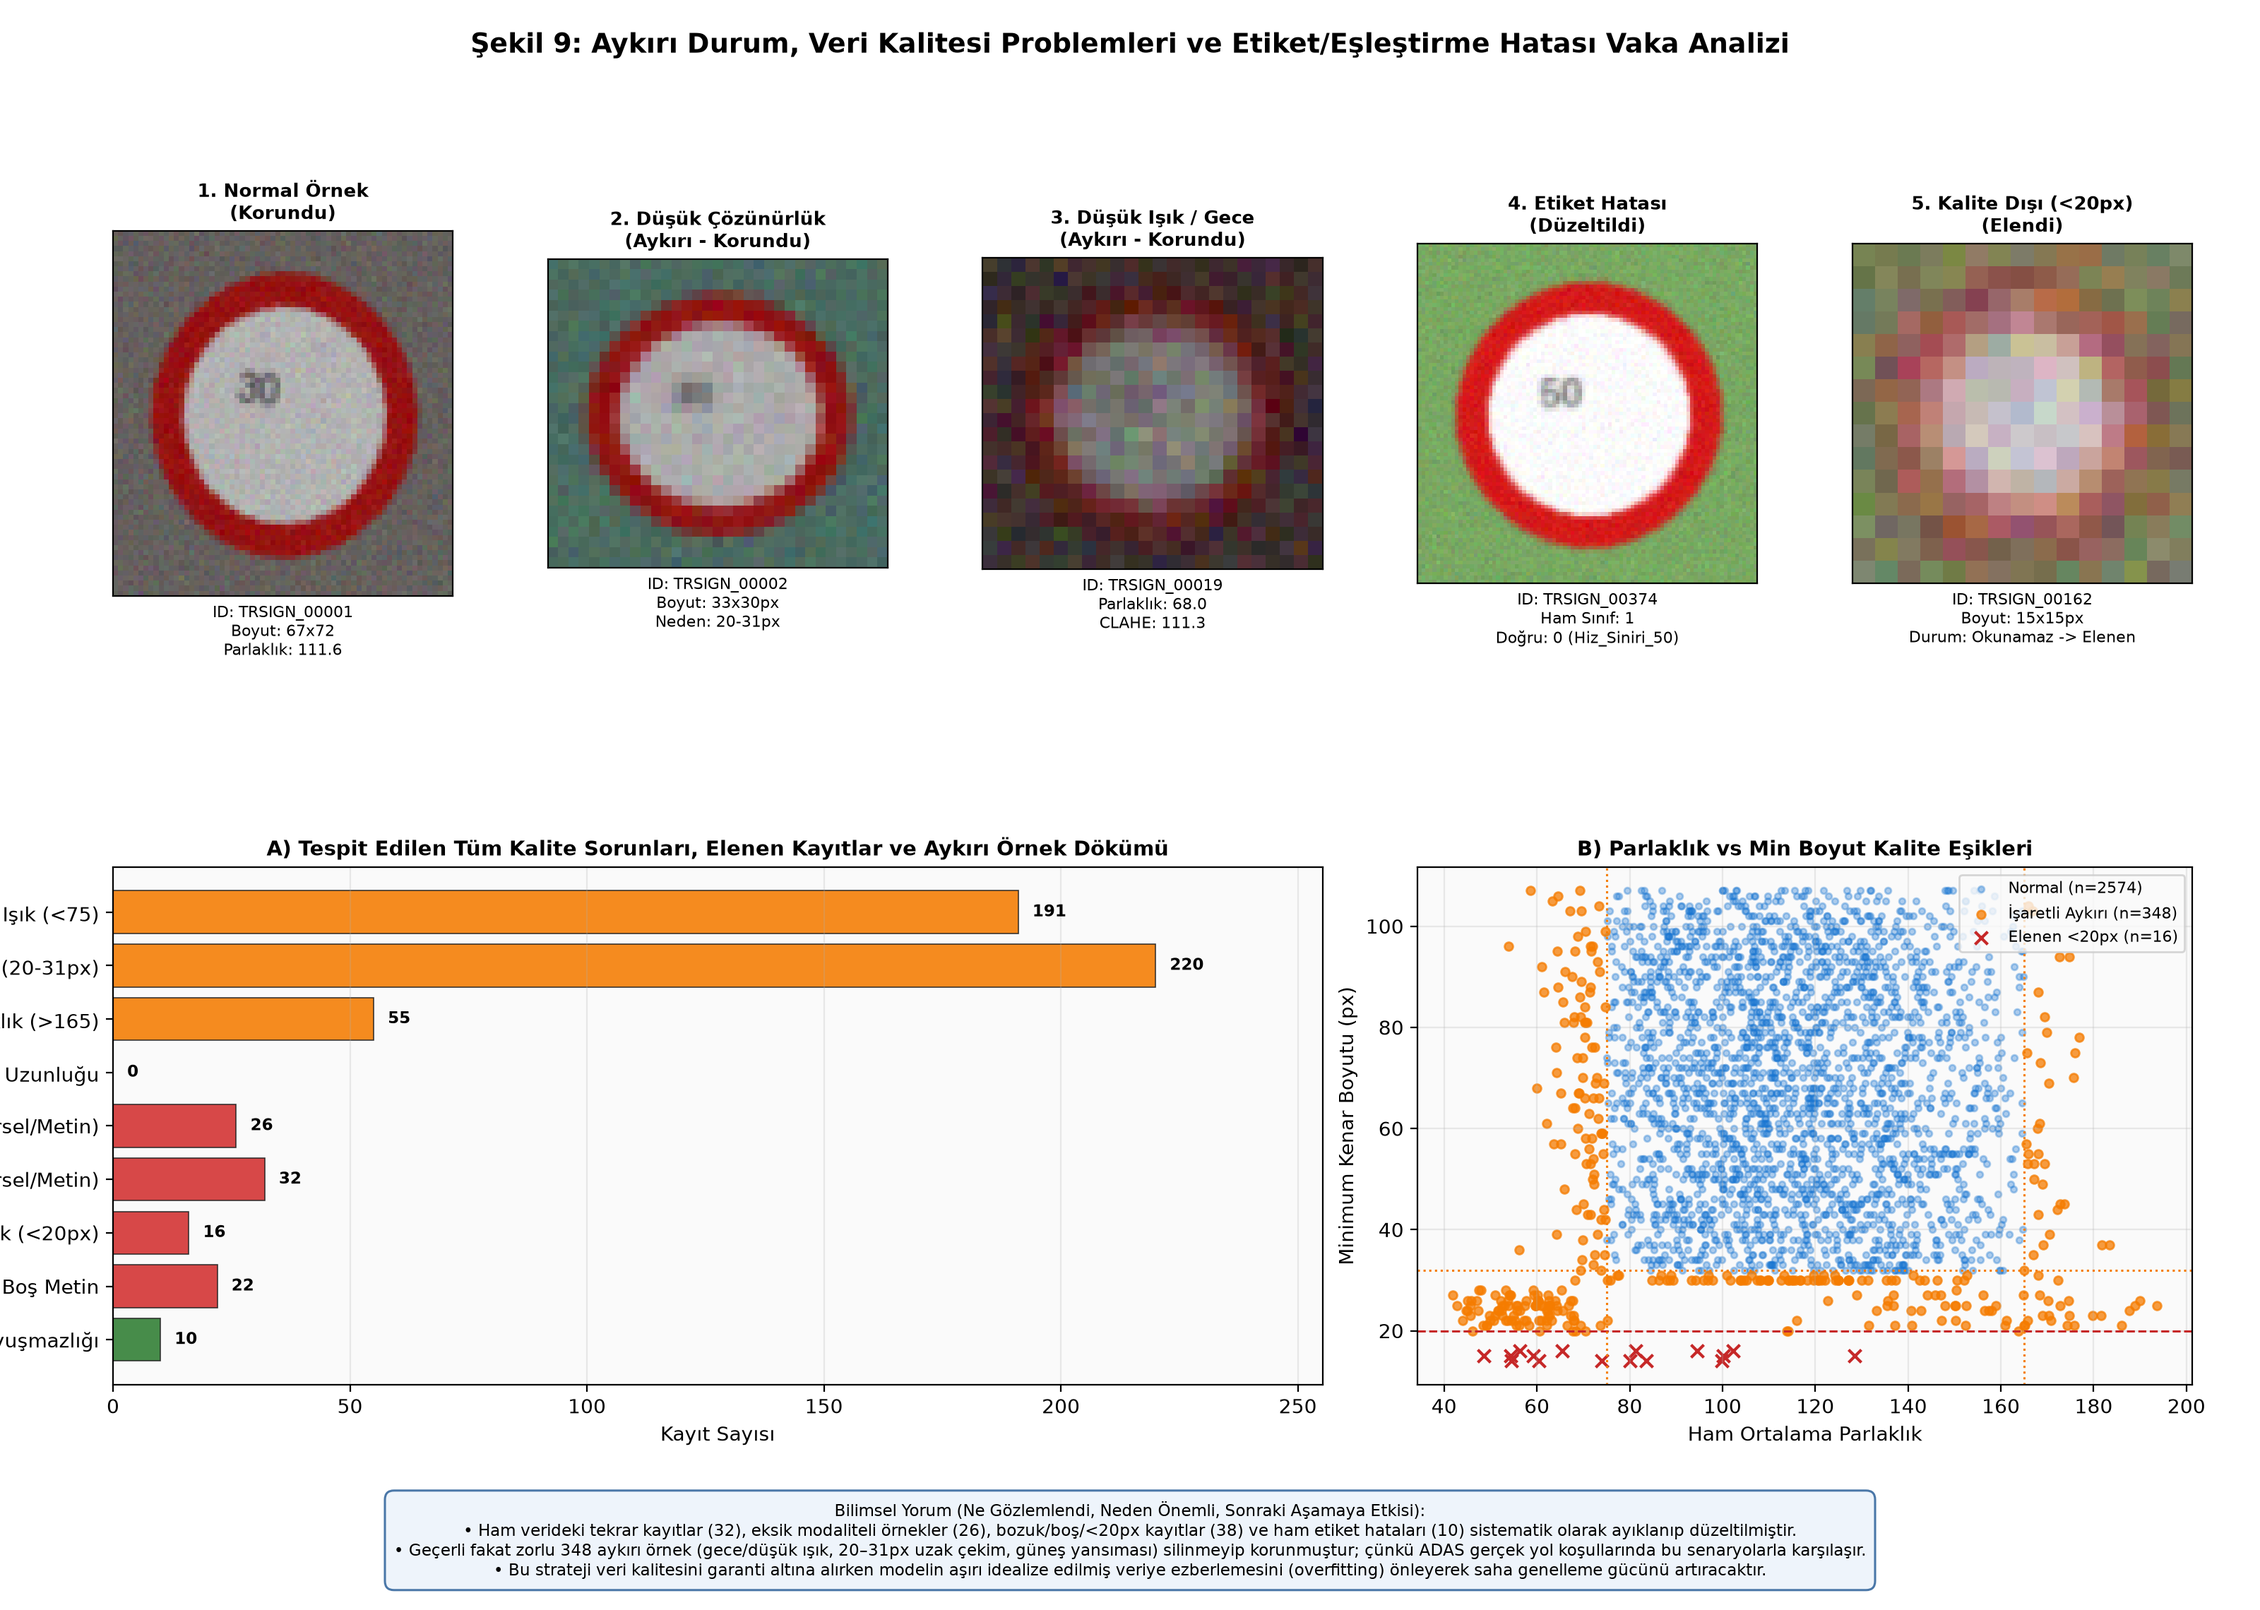
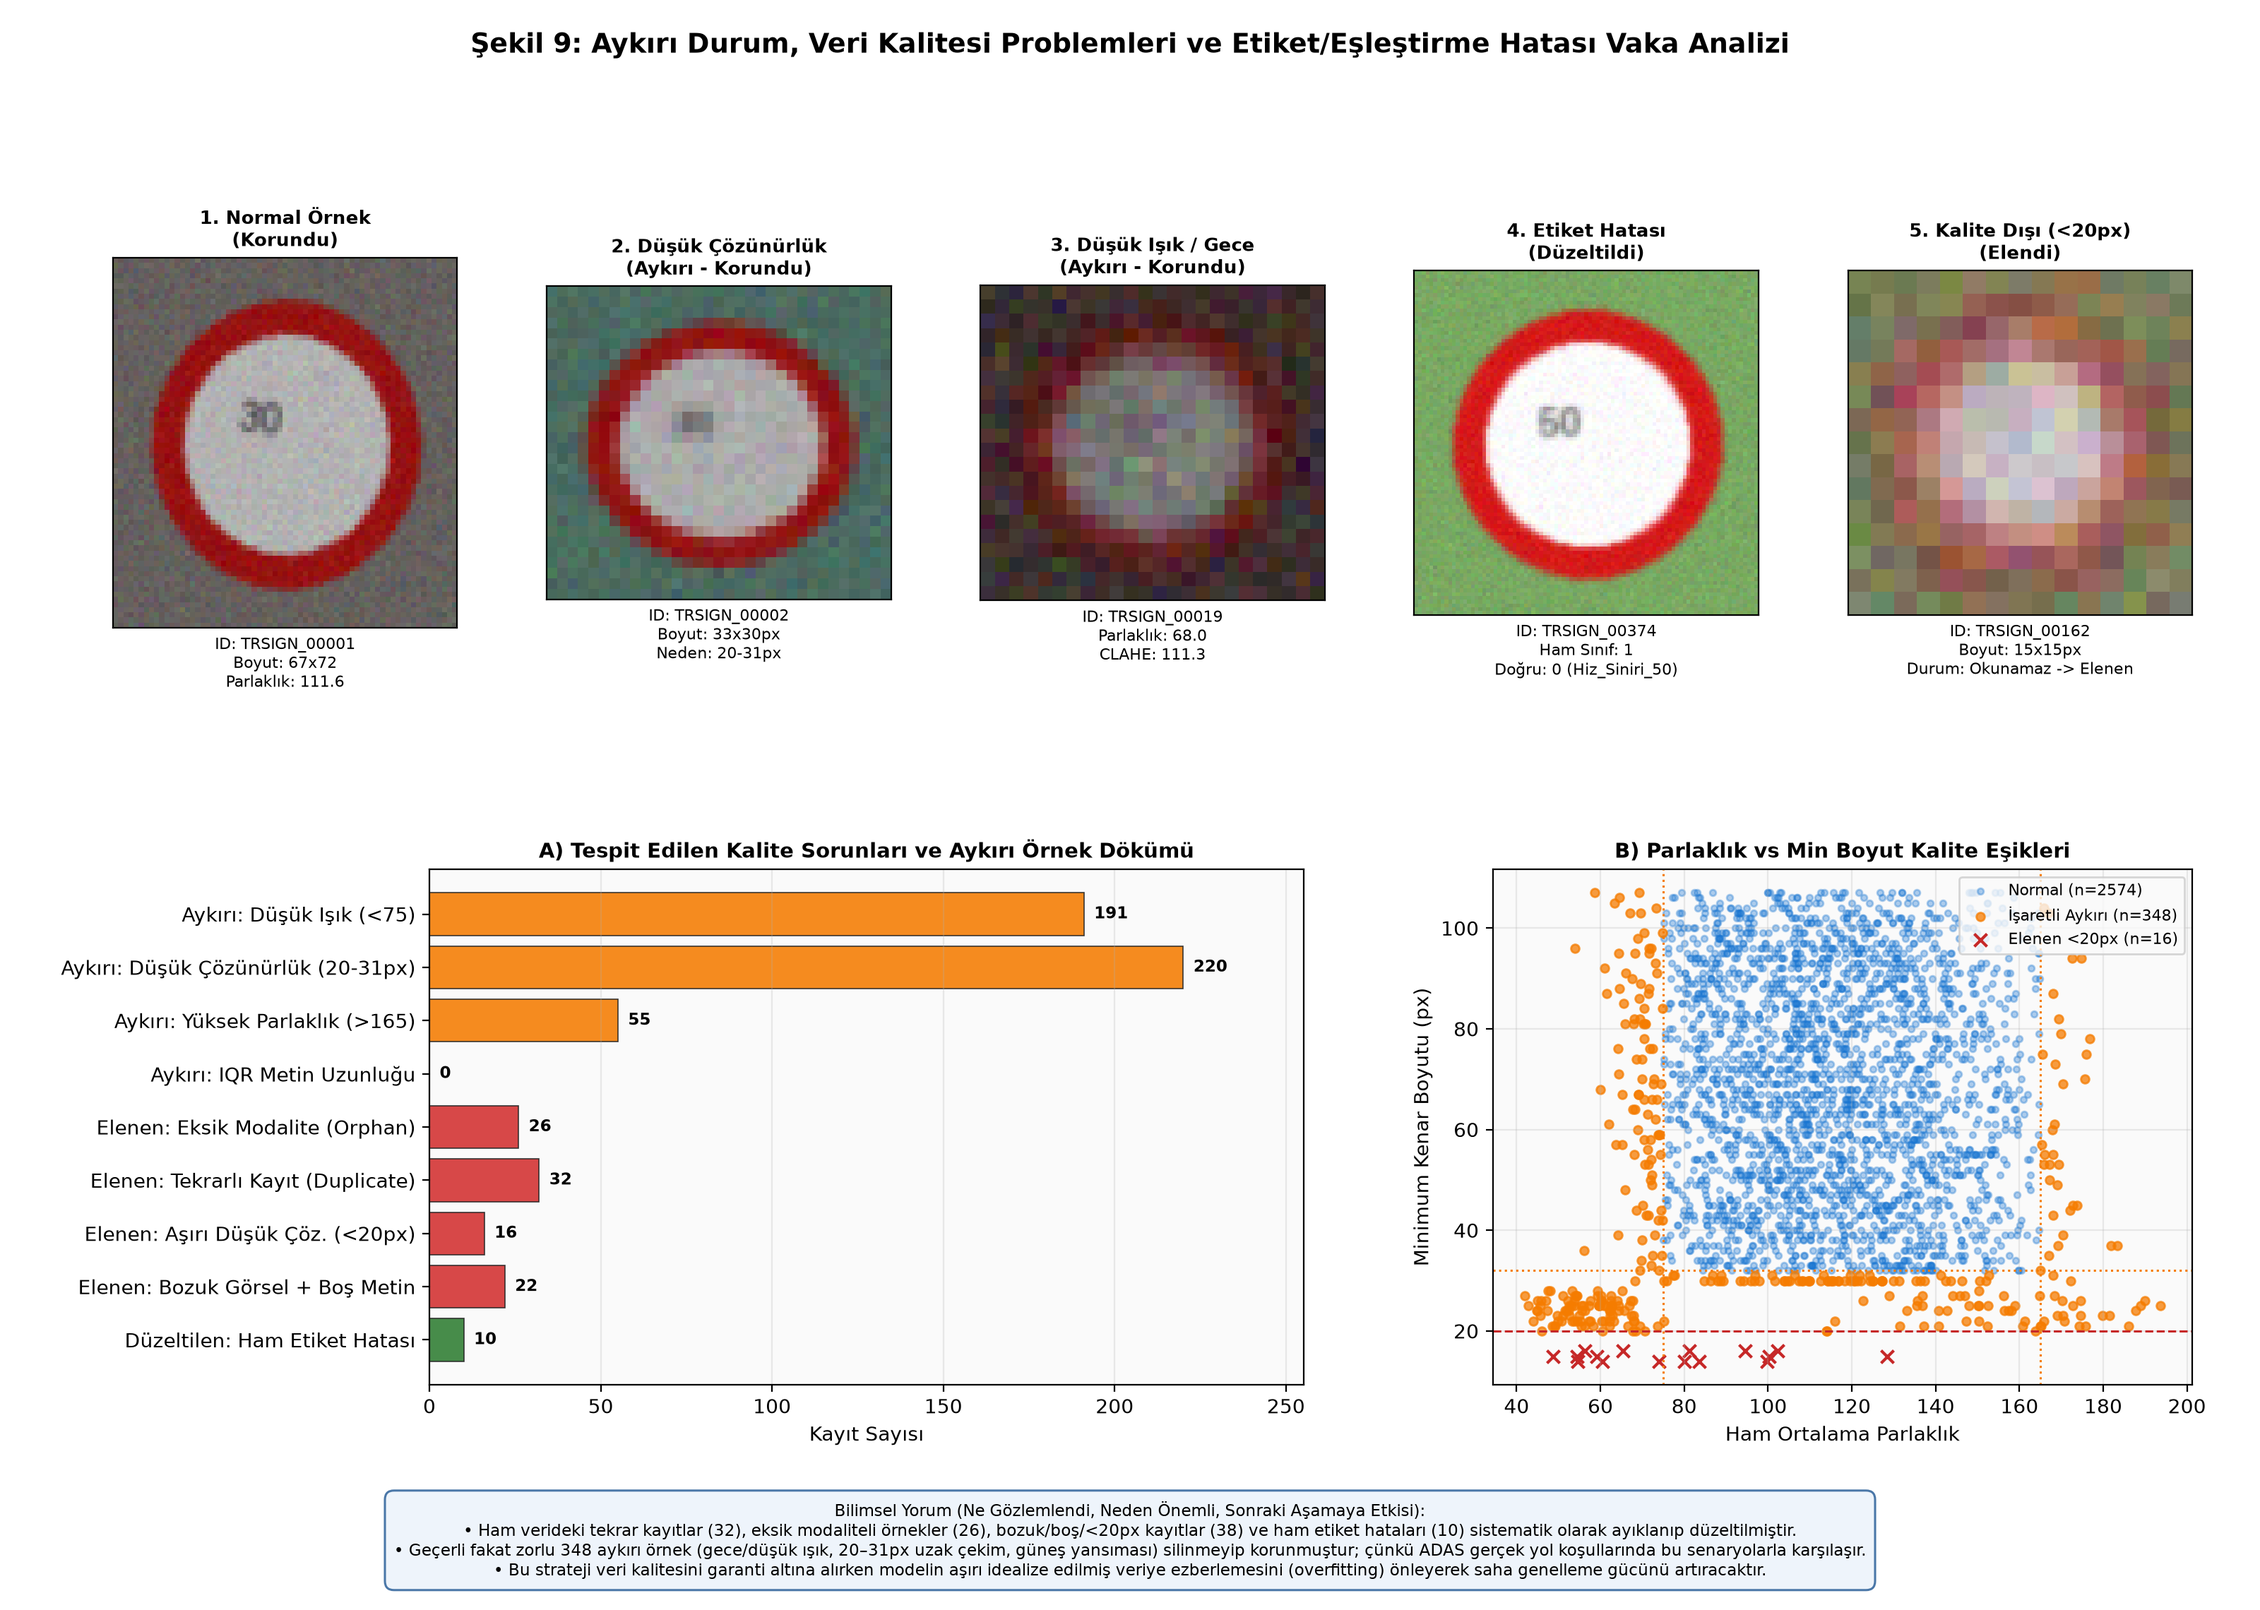
refactor: implement exploratory data analysis and scientific visualization module for dataset inspection

diff --git a/src/eda.py b/src/eda.py
@@ -704,8 +704,8 @@ def plot_outlier_and_anomaly_case_study(
     """Şekil 9: Aykırı durum, veri kalitesi problemi ve etiket/eşleştirme hatası vaka analizi."""
     _configure_matplotlib()
     fig = plt.figure(figsize=(16.0, 11.4), dpi=200)
-    gs = gridspec.GridSpec(2, 5, figure=fig, height_ratios=[1.05, 1.15], hspace=0.44, wspace=0.28)
-    fig.subplots_adjust(left=0.05, right=0.97, top=0.89, bottom=0.14)
+    gs_top = gridspec.GridSpec(1, 5, figure=fig, left=0.05, right=0.97, top=0.88, bottom=0.57, wspace=0.26)
+    gs_bot = gridspec.GridSpec(1, 2, figure=fig, width_ratios=[1.25, 1.0], left=0.19, right=0.97, top=0.46, bottom=0.14, wspace=0.24)
     fig.suptitle(
         "Şekil 9: Aykırı Durum, Veri Kalitesi Problemleri ve Etiket/Eşleştirme Hatası Vaka Analizi",
         fontsize=13.5,
@@ -728,7 +728,7 @@ def plot_outlier_and_anomaly_case_study(
     ]
 
     for col_idx, (title, row, footer) in enumerate(cases):
-        ax_case = fig.add_subplot(gs[0, col_idx])
+        ax_case = fig.add_subplot(gs_top[0, col_idx])
         with Image.open(BASE_DIR / str(row["image_path"])) as pil_img:
             arr = np.asarray(pil_img.convert("RGB"), dtype=np.uint8)
         ax_case.imshow(arr)
@@ -738,18 +738,18 @@ def plot_outlier_and_anomaly_case_study(
         ax_case.set_xlabel(footer, fontsize=8.0)
 
     # Alt Sol: Tespit Edilen Tüm Kalite Sorunları ve Aykırı Nedenleri Dağılımı
-    ax_bar = fig.add_subplot(gs[1, :3])
+    ax_bar = fig.add_subplot(gs_bot[0, 0])
     cleaning_summary = step3_report["cleaning_summary"]
     outlier_counts = {
-        "İşaretli Aykırı: Düşük Işık (<75)": int(cleaned_df["outlier_reason"].str.contains("Düşük Işık").sum()),
-        "İşaretli Aykırı: Düşük Çözünürlük (20-31px)": int(cleaned_df["outlier_reason"].str.contains("Düşük Çözünürlük").sum()),
-        "İşaretli Aykırı: Yüksek Parlaklık (>165)": int(cleaned_df["outlier_reason"].str.contains("Yüksek Parlaklık").sum()),
-        "İşaretli Aykırı: IQR Metin Uzunluğu": int(cleaned_df["outlier_reason"].str.contains("IQR Metin").sum()),
-        "Elenen Eksik Modalite (Orphan Görsel/Metin)": int(step2_report["unmatched_image_only_count"] + step2_report["unmatched_text_only_count"]),
-        "Elenen Tekrarlı Kayıt (Duplicate Görsel/Metin)": int(step2_report["duplicate_image_ids"] + step2_report["duplicate_text_ids"]),
-        "Elenen Aşırı Düşük Çözünürlük (<20px)": int(cleaning_summary["dropped_ultra_low_res_lt20px"]),
-        "Elenen Bozuk Dosya + Boş Metin": int(cleaning_summary["dropped_corrupted_images"] + cleaning_summary["dropped_empty_texts"]),
-        "Düzeltilen Ham Etiket Uyuşmazlığı": int(cleaning_summary["labels_fixed_count"]),
+        "Aykırı: Düşük Işık (<75)": int(cleaned_df["outlier_reason"].str.contains("Düşük Işık").sum()),
+        "Aykırı: Düşük Çözünürlük (20-31px)": int(cleaned_df["outlier_reason"].str.contains("Düşük Çözünürlük").sum()),
+        "Aykırı: Yüksek Parlaklık (>165)": int(cleaned_df["outlier_reason"].str.contains("Yüksek Parlaklık").sum()),
+        "Aykırı: IQR Metin Uzunluğu": int(cleaned_df["outlier_reason"].str.contains("IQR Metin").sum()),
+        "Elenen: Eksik Modalite (Orphan)": int(step2_report["unmatched_image_only_count"] + step2_report["unmatched_text_only_count"]),
+        "Elenen: Tekrarlı Kayıt (Duplicate)": int(step2_report["duplicate_image_ids"] + step2_report["duplicate_text_ids"]),
+        "Elenen: Aşırı Düşük Çöz. (<20px)": int(cleaning_summary["dropped_ultra_low_res_lt20px"]),
+        "Elenen: Bozuk Görsel + Boş Metin": int(cleaning_summary["dropped_corrupted_images"] + cleaning_summary["dropped_empty_texts"]),
+        "Düzeltilen: Ham Etiket Hatası": int(cleaning_summary["labels_fixed_count"]),
     }
     labels_b = list(outlier_counts.keys())[::-1]
     vals_b = list(outlier_counts.values())[::-1]
@@ -760,13 +760,13 @@ def plot_outlier_and_anomaly_case_study(
     bars = ax_bar.barh(labels_b, vals_b, color=colors_b, edgecolor="#222222", linewidth=0.6, alpha=0.88)
     for bar, val in zip(bars, vals_b):
         ax_bar.text(val + 3, bar.get_y() + bar.get_height() / 2, f"{val}", va="center", fontsize=8.3, fontweight="bold")
-    ax_bar.set_title("A) Tespit Edilen Tüm Kalite Sorunları, Elenen Kayıtlar ve Aykırı Örnek Dökümü", fontsize=10.3, fontweight="bold")
+    ax_bar.set_title("A) Tespit Edilen Kalite Sorunları ve Aykırı Örnek Dökümü", fontsize=10.3, fontweight="bold")
     ax_bar.set_xlabel("Kayıt Sayısı")
     ax_bar.set_xlim(0, max(vals_b) * 1.16)
     ax_bar.grid(axis="x", alpha=0.25)
 
     # Alt Sağ: Çözünürlük vs Parlaklık Kalite Bölgesi Haritası
-    ax_zone = fig.add_subplot(gs[1, 3:])
+    ax_zone = fig.add_subplot(gs_bot[0, 1])
     normal_pts = cleaned_df[~cleaned_df["is_outlier_sample"]]
     outlier_pts = cleaned_df[cleaned_df["is_outlier_sample"]]
     dropped_pts = raw_matched_df[(~raw_matched_df["is_corrupted"]) & (raw_matched_df[["width", "height"]].min(axis=1) < 20)]

diff --git a/src/splitter.py b/src/splitter.py
@@ -252,7 +252,7 @@ def plot_split_verification(
     plt.rcParams["axes.facecolor"] = "#FAFAFA"
 
     fig, axes = plt.subplots(2, 2, figsize=(16.0, 10.6), dpi=200)
-    fig.subplots_adjust(left=0.06, right=0.97, top=0.89, bottom=0.14, hspace=0.38, wspace=0.25)
+    fig.subplots_adjust(left=0.13, right=0.97, top=0.89, bottom=0.14, hspace=0.38, wspace=0.24)
     fig.suptitle(
         "Şekil 10: Sızıntısız Katmanlı Veri Bölme (70/15/15 + 5-Fold CV) ve Model Girdi Tensörü Doğrulaması",
         fontsize=13.5,
